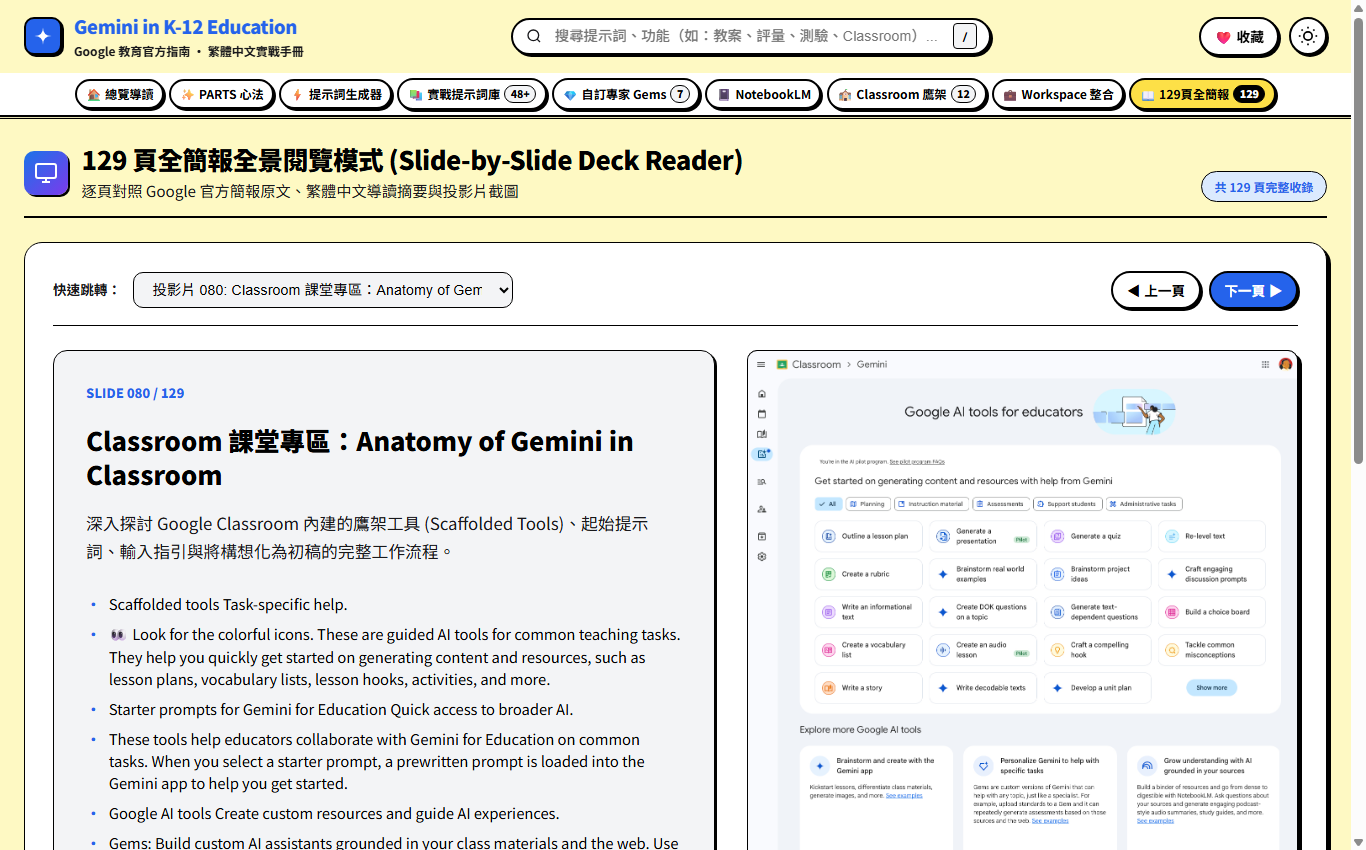
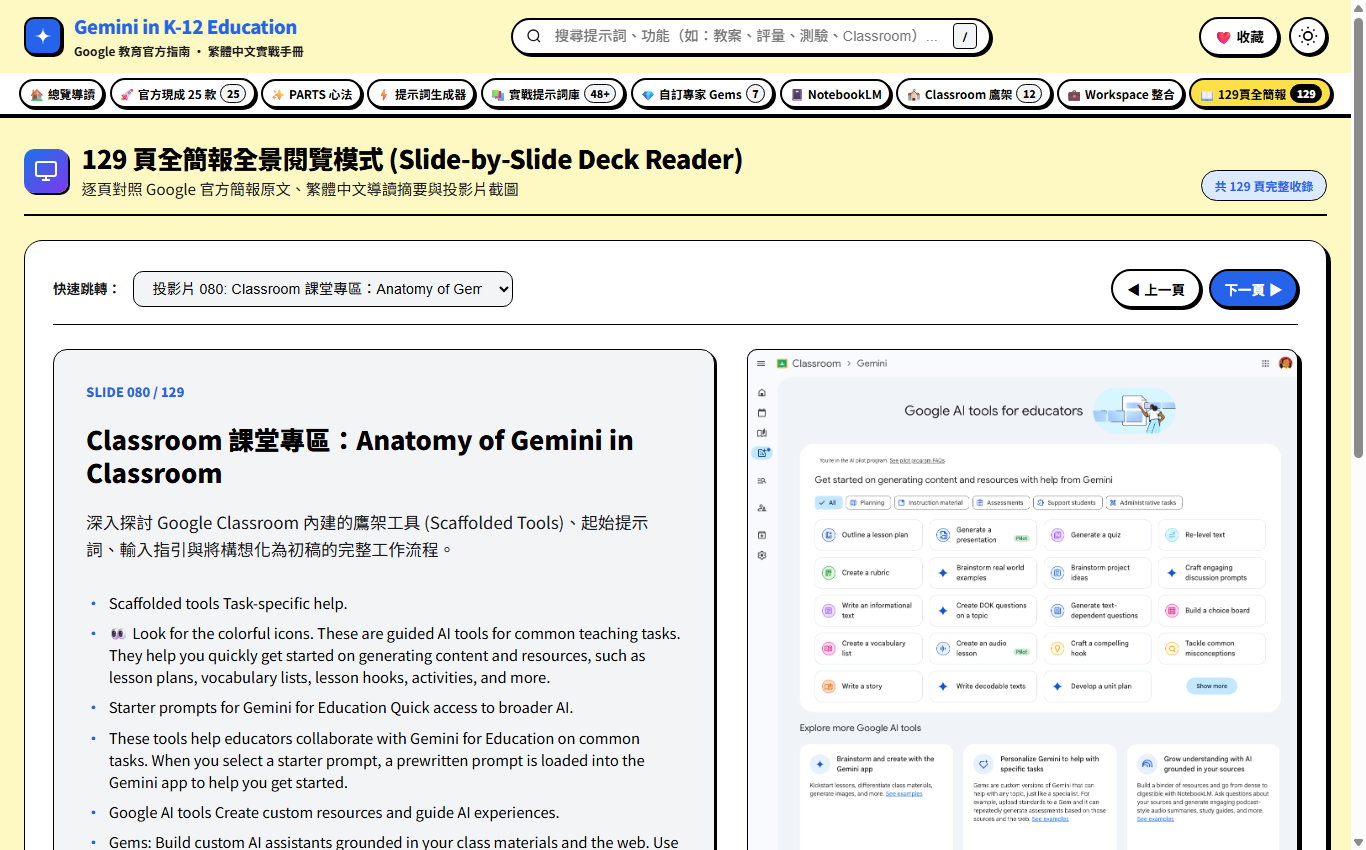
docs: re-capture screenshots 02-07 with updated 10-item subnav and update footer source links in index.html & README

diff --git a/index.html b/index.html
@@ -1181,8 +1181,12 @@
             <span class="credit-icon">📚</span>
             <div class="credit-body">
               <strong>原創內容來源：</strong>
+              <a href="https://edu.google.com/intl/ALL_tw/resources/ai-for-k-12-educators/" target="_blank" rel="noopener noreferrer" class="footer-link">
+                Google for Education 幼兒園到高中 AI 應用實例（教學適用的現成 AI 提示詞） ↗
+              </a>
+              <span style="color: var(--text-muted); margin: 0 0.35rem;">與</span>
               <a href="https://docs.google.com/presentation/d/1MTyP-BBusYw2rHKE_lQ2QVDA7uT7ngYaGfBy9HypQdY/view" target="_blank" rel="noopener noreferrer" class="footer-link">
-                Google for Education 官方簡報《100+ ways to use Gemini in K-12 education》 ↗
+                官方簡報《在教育領域運用 Gemini 的 100 多種構想》(100+ ways to use Gemini in K-12 education) ↗
               </a>
             </div>
           </div>

diff --git a/README.md b/README.md
@@ -10,7 +10,7 @@
 
 本專案旨在將 **Google for Education 官方發布的英文簡報《100+ ways to use Gemini in K-12 education》（共 129 頁）**，完整轉化為專為台灣中小學教師、行政團隊與學生量身打造的**繁體中文互動式實戰網站**。
 
-* **原創內容來源**：[Google for Education 幼兒園到高中 AI 應用實例 ↗](https://edu.google.com/intl/ALL_tw/resources/ai-for-k-12-educators/) 推薦之 [官方簡報《在教育領域運用 Gemini 的 100 多種構想》(100+ ways to use Gemini in K-12 education) ↗](https://docs.google.com/presentation/d/1MTyP-BBusYw2rHKE_lQ2QVDA7uT7ngYaGfBy9HypQdY/view)
+* **原創內容來源**：[Google for Education 幼兒園到高中 AI 應用實例（教學適用的現成 AI 提示詞） ↗](https://edu.google.com/intl/ALL_tw/resources/ai-for-k-12-educators/) 與推薦之 [官方簡報《在教育領域運用 Gemini 的 100 多種構想》(100+ ways to use Gemini in K-12 education) ↗](https://docs.google.com/presentation/d/1MTyP-BBusYw2rHKE_lQ2QVDA7uT7ngYaGfBy9HypQdY/view)
 * **繁體中文化構想與在地化整理**：**國立南大附中 李佳恩老師**
   > 「有感於 Google 官方這份高達 129 頁的 AI 教育指南內容極具深度與前瞻性，但全英文且篇幅龐大，許多科目老師看到英文往往直接放棄。特提出繁中化構想並製作成互動實踐指南網頁，希望能推廣這寶貴教材。」
 * **意見交流與修訂建議**：歡迎各級學校教師來信交流教學心得或提供勘誤建議：[`begin@gm.tntcsh.tn.edu.tw`](mailto:begin@gm.tntcsh.tn.edu.tw)
